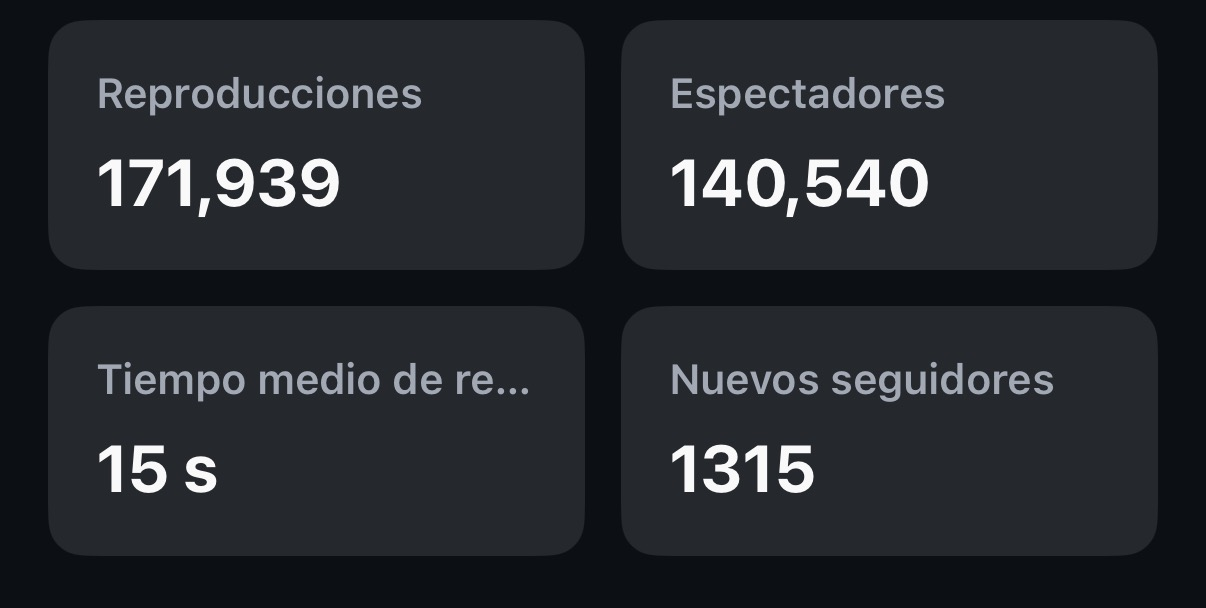
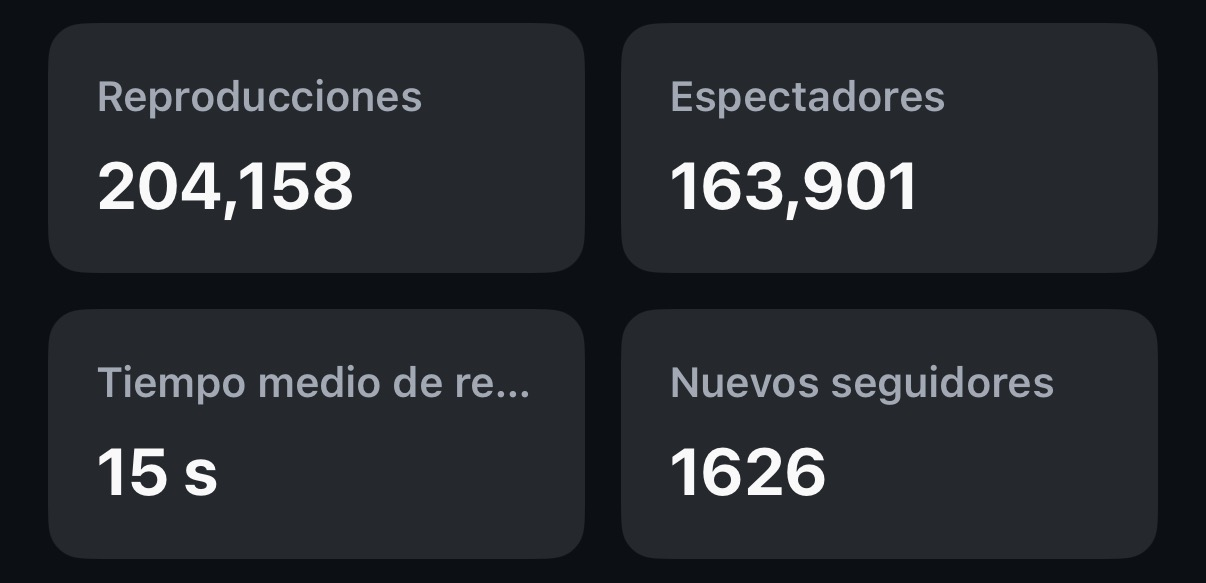
Caso Javier Núñez: nuevos vídeos y cifras de noviembre de 2026
Capturas nuevas: "¿De quién es esta casa?" (387 mil, 2.005 seguidores nuevos)
y "¿Dónde comprar pisos baratos?" (204 mil, 1.626 seguidores nuevos). Entre
los dos, más de 591 mil visitas y más de 488 mil personas; la cuenta tiene
3.544 seguidores.

- Web: titular "2 vídeos: +3.500 seguidores nuevos", cifras y estadísticas
  del caso, muro de resultados (ordenado solo por visitas), cifra de la banda
  (2.005 con un solo vídeo) y su perfil en las cuentas.
- Historias: caso, estadísticas, visitas y servicios con las cifras nuevas.
- Pruebas: cifras nuevas obligatorias y las anteriores prohibidas.

Claude-Session: https://claude.ai/code/session_01Btve4cd4RAxt1xTwi1btsU

diff --git a/README.md b/README.md
@@ -409,12 +409,12 @@ la página publicada). Búscalos con `grep -rn "PENDIENTE\|REVISAR" src docs .en
   identificadores publicitarios en el navegador sin permiso no lo admite la
   LSSI. Como el formulario está en la misma página, los eventos llevan los
   mismos datos. Con consentimiento se guardan en sessionStorage como antes.
-- **Caso Exoneris actualizado** con las capturas de finales de octubre de 2026:
-  sus dos reels suman más de 405 mil visitas y más de 342 mil personas los
-  vieron ("¿Dónde comprar pisos baratos?", 171 mil y 1.315 seguidores nuevos;
-  "¿De quién es esta casa?", 234 mil y 932 seguidores nuevos), y la cuenta tiene
-  2.195 seguidores. El titular dice "+2.000 seguidores nuevos" aunque las
-  estadísticas suman 2.247, para no pasar de lo que se ve en el perfil.
+- **Caso Exoneris actualizado** con las capturas de principios de noviembre de
+  2026: sus dos reels suman más de 591 mil visitas y más de 488 mil personas los
+  vieron ("¿Dónde comprar pisos baratos?", 204 mil y 1.626 seguidores nuevos;
+  "¿De quién es esta casa?", 387 mil y 2.005 seguidores nuevos), y la cuenta
+  tiene 3.544 seguidores. El titular dice "+3.500 seguidores nuevos" aunque las
+  estadísticas suman 3.631, para no pasar de lo que se ve en el perfil.
 - **Perfil del formulario:** acepta @usuario, usuario o una URL de Instagram,
   TikTok o web. Si alguien escribe otra cosa (por ejemplo, el nombre del
   negocio o "no tengo"), se guarda tal cual en lugar de bloquear el envío.
